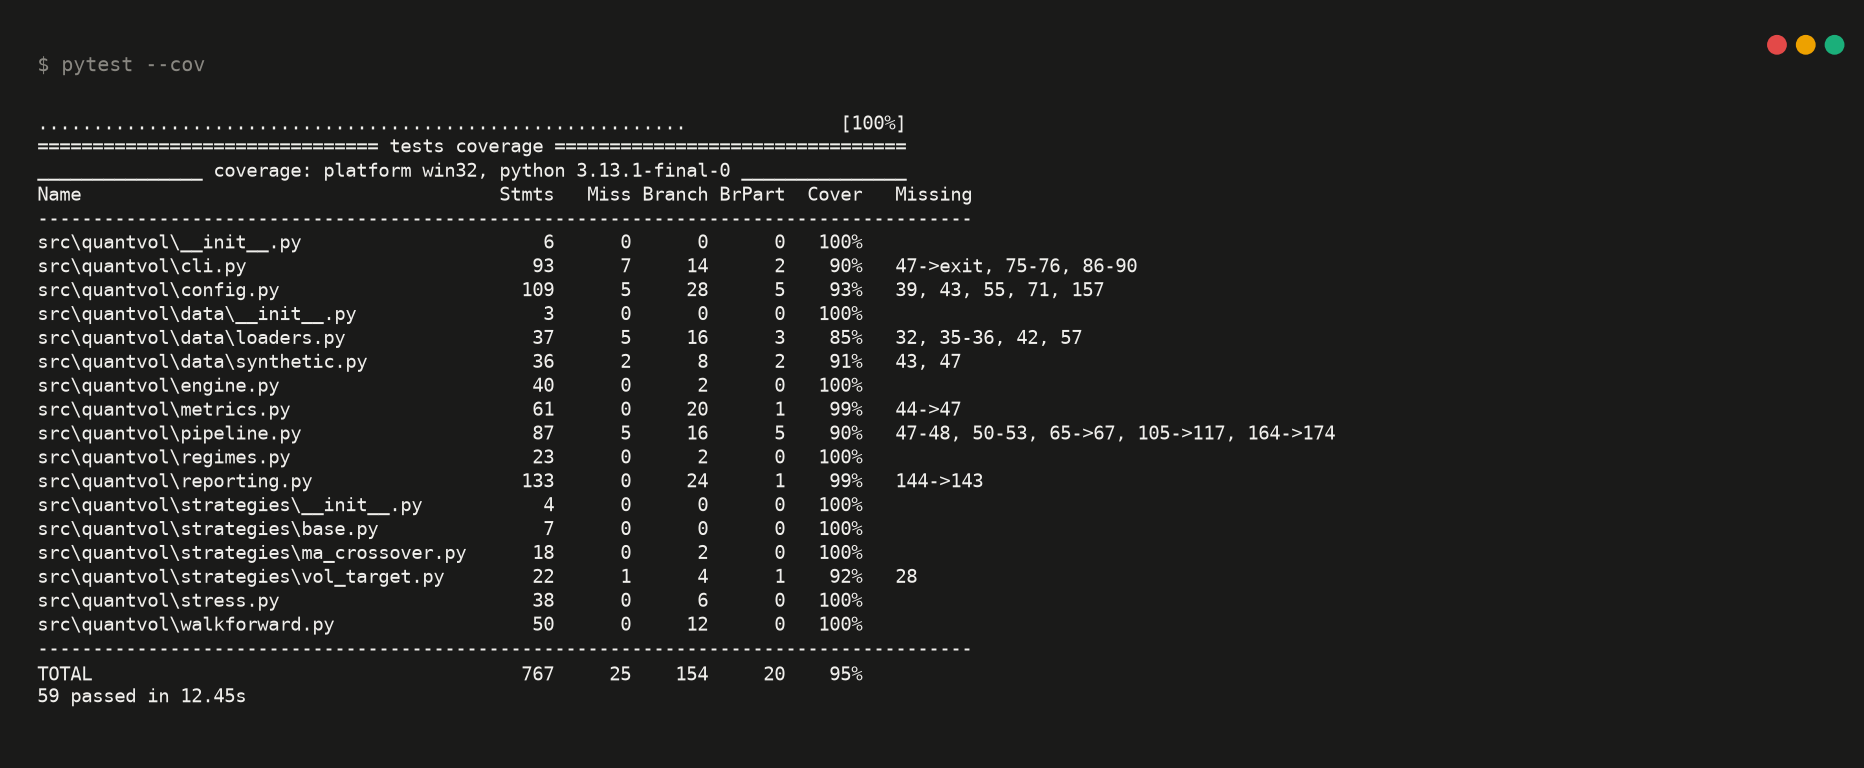
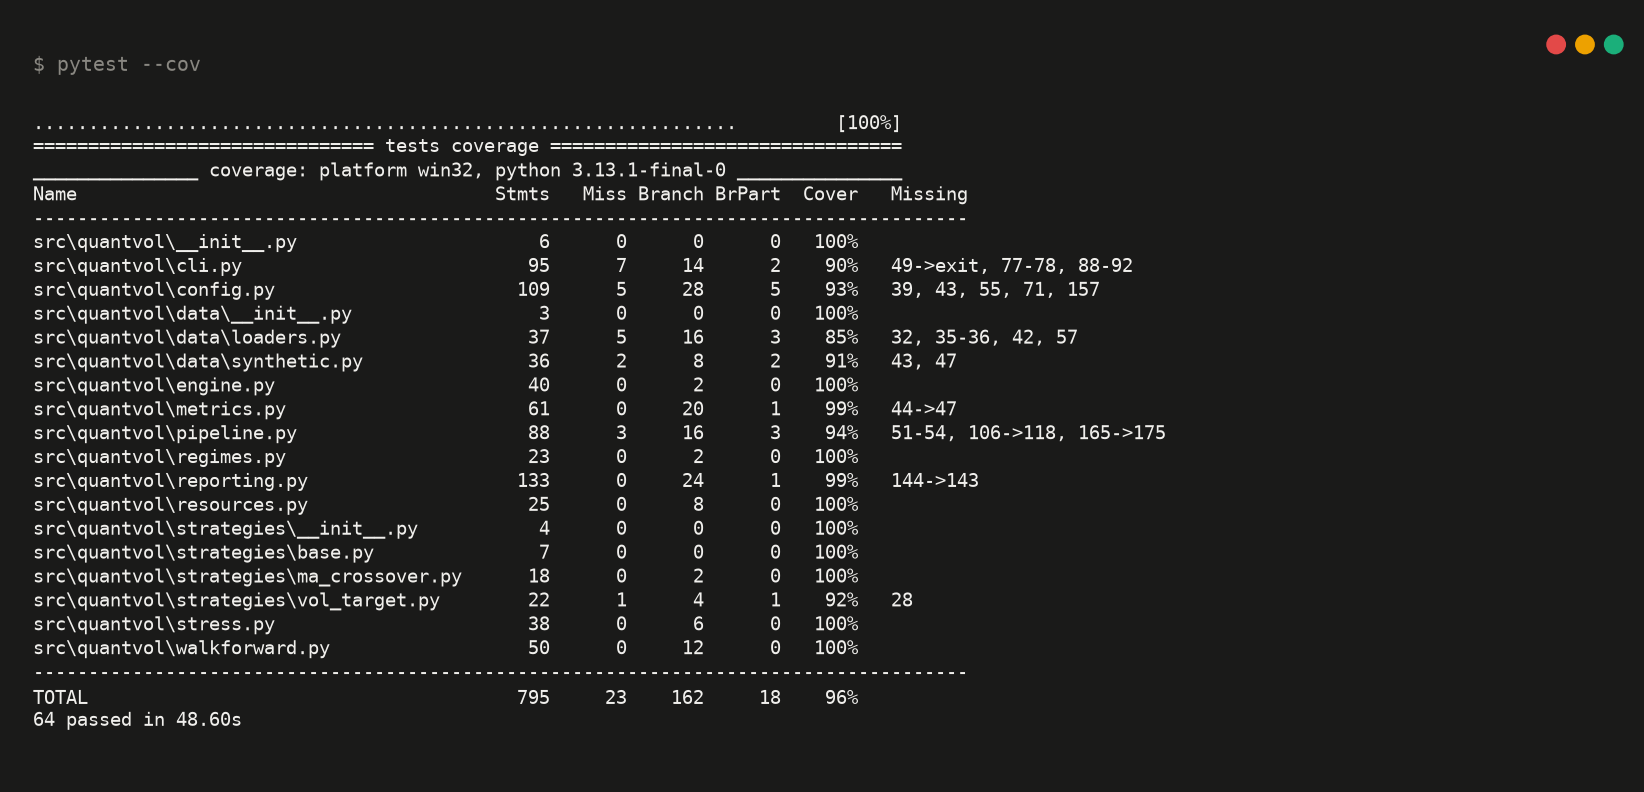
docs: update paths, bundled-config usage and test counts
- use `--config spy` and `resource_path()` in the README, Makefile and notebook
- describe the bundled assets in the architecture and methodology docs
- refresh the test and CLI screenshots (64 tests, 96% coverage)
- note the changes in the changelog

Changed region(s): [[0.0, 0.125, 0.7135, 0.9375], [0.9307, 0.0312, 0.9927, 0.0938], [0.031, 0.0625, 0.1241, 0.0938]]

diff --git a/README.md b/README.md
@@ -4,7 +4,7 @@
 
 [![CI](https://github.com/shreyescodes/vol-regime-backtester/actions/workflows/ci.yml/badge.svg)](https://github.com/shreyescodes/vol-regime-backtester/actions/workflows/ci.yml)
 ![Python](https://img.shields.io/badge/python-3.10%20%7C%203.11%20%7C%203.12-blue)
-![Coverage](https://img.shields.io/badge/coverage-95%25-brightgreen)
+![Coverage](https://img.shields.io/badge/coverage-96%25-brightgreen)
 ![Types](https://img.shields.io/badge/mypy-strict-blue)
 ![Lint](https://img.shields.io/badge/lint-ruff-261230)
 [![License: MIT](https://img.shields.io/badge/License-MIT-yellow.svg)](LICENSE)
@@ -15,7 +15,7 @@ QuantVol answers one question carefully: **does conditioning a long-only strateg
 
 ## Results on real data (SPY, 2005-2024)
 
-5,032 daily bars including 2008, 2011, 2020 and 2022. Costs: 5 bps per unit of turnover. Signals are lagged one bar. Config: [`configs/spy.yaml`](configs/spy.yaml).
+5,032 daily bars including 2008, 2011, 2020 and 2022. Costs: 5 bps per unit of turnover. Signals are lagged one bar. Config: [`spy.yaml`](src/quantvol/assets/spy.yaml).
 
 | Strategy | CAGR | Sharpe | Sortino | Max drawdown | Calmar |
 |---|---:|---:|---:|---:|---:|
@@ -45,7 +45,7 @@ Sharpe is positive across the whole 4x4 window grid (0.31 to 0.62), so the resul
 ## Interactive dashboard
 
 ```bash
-quantvol dashboard        # or: streamlit run app/dashboard.py
+quantvol dashboard        # needs the app extra: pip install -e ".[app]"
 ```
 
 <p align="center">
@@ -69,7 +69,7 @@ The dashboard runs the same `run_pipeline` as the CLI. Switch between the bundle
 | **Configuration** | Everything tunable is a validated YAML field; unknown keys, bad ranges and inconsistent thresholds fail with a clear message. |
 | **Single orchestration path** | The CLI and the dashboard both call `quantvol.pipeline.run_pipeline`. |
 | **Typing and style** | `mypy --strict` on `src/`, `ruff` lint and format, `py.typed` marker. |
-| **Tests** | 59 tests: hand-computed P&L, golden metric values, [Hypothesis](https://hypothesis.readthedocs.io) properties (weights in `[0, 1]`, equity positive), look-ahead and walk-forward leakage checks, config validation, CLI smoke tests. 95% branch coverage with an 85% gate. |
+| **Tests** | 64 tests: hand-computed P&L, golden metric values, [Hypothesis](https://hypothesis.readthedocs.io) properties (weights in `[0, 1]`, equity positive), look-ahead and walk-forward leakage checks, config validation, CLI smoke tests, and Streamlit `AppTest` runs of the dashboard. 96% branch coverage (dashboard excluded from the metric, see `pyproject.toml`) with an 85% gate. |
 | **CI** | GitHub Actions: lint, type-check, tests on Python 3.10-3.12, wheel build with `twine check`, Docker build. |
 | **Reproducibility** | Seeded local RNG (global NumPy state untouched), bundled data sample, tests and CI never use the network. |
 
@@ -87,11 +87,13 @@ cd vol-regime-backtester
 python -m venv .venv && source .venv/bin/activate      # Windows: .venv\Scripts\activate
 pip install -e ".[dev,app,data]"
 
-quantvol run --config configs/spy.yaml --out reports/spy   # full report: tables + figures
-quantvol sweep --config configs/spy.yaml                   # Sharpe grid over crossover windows
-quantvol walkforward --config configs/spy.yaml             # rolling out-of-sample test
+quantvol run --config spy --out reports/spy                 # full report: tables + figures
+quantvol sweep --config spy                                 # Sharpe grid over crossover windows
+quantvol walkforward --config spy                           # rolling out-of-sample test
 quantvol dashboard                                         # Streamlit UI
 ```
+
+`spy` and `default` are example configs that ship inside the package, along with the SPY data, so these commands also work after a plain `pip install`. Pass a file path instead to use your own config.
 
 <p align="center">
   <img src="docs/images/cli_run.png" width="75%" alt="quantvol run output">
@@ -106,9 +108,10 @@ from dataclasses import asdict
 
 from quantvol import Backtester, RegimeFilteredMovingAverageCrossover, detect_regimes, load_config
 from quantvol.data import load_csv_data
+from quantvol.resources import resource_path
 
-cfg = load_config("configs/spy.yaml")
-data = load_csv_data("data/sample/spy_2005_2024.csv")
+cfg = load_config(resource_path("spy.yaml"))
+data = load_csv_data(resource_path("spy_2005_2024.csv"))
 
 regimes = detect_regimes(data, **asdict(cfg.regime))
 strategy = RegimeFilteredMovingAverageCrossover(**asdict(cfg.crossover))
@@ -151,8 +154,9 @@ src/quantvol/
   reporting.py     figures
   pipeline.py      end-to-end orchestration and report writer
   cli.py           quantvol run | sweep | walkforward | dashboard
-app/dashboard.py   Streamlit UI
-configs/           spy.yaml (real data), default.yaml (synthetic)
+  dashboard.py     Streamlit UI
+  resources.py     locate the bundled configs and data
+  assets/          spy.yaml, default.yaml, SPY 2005-2024 sample CSV
 tests/             pytest + Hypothesis
 docs/              METHODOLOGY.md, ARCHITECTURE.md
 ```

diff --git a/CHANGELOG.md b/CHANGELOG.md
@@ -9,8 +9,8 @@ All notable changes to this project are documented here. The format follows
 ### Added
 - Installable `quantvol` package (`src/` layout) with a `quantvol` CLI: `run`, `sweep`,
   `walkforward`, `dashboard`.
-- Validated, frozen YAML configuration with clear error messages (`configs/spy.yaml`,
-  `configs/default.yaml`).
+- Validated, frozen YAML configuration with clear error messages (`spy`, `default`),
+  bundled in the package and selectable by name: `quantvol run --config spy`.
 - Real-data support: bundled SPY 2005-2024 sample, standardizing CSV/Excel loader, and an
   optional Yahoo Finance loader with an on-disk cache.
 - Metrics: Sortino, annual volatility, historical VaR/CVaR, win rate, exposure, turnover.
@@ -20,11 +20,14 @@ All notable changes to this project are documented here. The format follows
   walk-forward figures.
 - Streamlit dashboard rebuilt on the package API with Overview, Equity, Regimes, Stress tests and
   Robustness tabs.
-- Test suite of 59 pytest and Hypothesis tests (95% coverage), including look-ahead and
-  walk-forward leakage checks.
+- Test suite of 64 pytest, Hypothesis and Streamlit `AppTest` tests (96% coverage), including
+  look-ahead and walk-forward leakage checks and end-to-end dashboard runs.
 - CI on Python 3.10-3.12 with ruff, mypy (strict), coverage, wheel build and Docker build;
   multi-stage non-root Dockerfile; pre-commit hooks.
 - `docs/METHODOLOGY.md` and `docs/ARCHITECTURE.md`.
+- The dashboard, example configs and SPY sample ship inside the wheel, so `quantvol dashboard`
+  and `--config spy` work after a normal `pip install`.
+- GitHub pull request and issue templates, `SECURITY.md`, `CODEOWNERS` and Dependabot.
 
 ### Changed
 - `Backtester` and all config sections are immutable dataclasses; results are returned as a typed

diff --git a/docs/METHODOLOGY.md b/docs/METHODOLOGY.md
@@ -89,8 +89,8 @@ single best in-sample parameter set did.
 ## 8. Data
 
 * **Real:** SPY daily bars 2005-01-03 to 2024-12-30 from Yahoo Finance (`auto_adjust=True`, so
-  prices are split and dividend adjusted), bundled at `data/sample/spy_2005_2024.csv` for offline
-  reproducibility. Provided for demonstration; check the vendor's terms before redistributing.
+  prices are split and dividend adjusted), bundled inside the package (`src/quantvol/assets/spy_2005_2024.csv`)
+  for offline reproducibility. Provided for demonstration; check the vendor's terms before redistributing.
 * **Synthetic:** a Markov-switching GBM with three regimes (`quantvol.data.synthetic`),
   deterministic per seed. Used as a test fixture and to demonstrate mechanics. Because the data
   was generated by a regime model, results on it say nothing about live performance.
@@ -102,5 +102,5 @@ single best in-sample parameter set did.
 * Single-asset, long-only; no portfolio construction or shorting.
 * The bundled sample is one instrument over one 20-year window that was dominated by a bull
   market. Conclusions about the strategies should be read in that light.
-* Parameters in `configs/spy.yaml` are reasonable defaults, not an optimized set. The sweep and
+* Parameters in `spy.yaml` are reasonable defaults, not an optimized set. The sweep and
   walk-forward outputs show how sensitive results are to that choice.

diff --git a/docs/ARCHITECTURE.md b/docs/ARCHITECTURE.md
@@ -22,7 +22,7 @@ flowchart LR
     WF --> REP
     REP --> OUT[(CSV / JSON / PNG)]
     PIPE --> CLI[cli.py]
-    PIPE --> DASH[app/dashboard.py]
+    PIPE --> DASH[dashboard.py]
 ```
 
 ## Module responsibilities
@@ -40,6 +40,8 @@ flowchart LR
 | `reporting.py` | Figures (headless Matplotlib) | `plot_*` |
 | `pipeline.py` | Orchestrates a full run, writes the report | `run_pipeline` |
 | `cli.py` | `quantvol run / sweep / walkforward / dashboard` | `main` |
+| `dashboard.py` | Streamlit UI, launched by `quantvol dashboard` | |
+| `resources.py` + `assets/` | Example configs and the SPY sample, shipped in the wheel | `resource_path` |
 
 ## Design decisions
 
